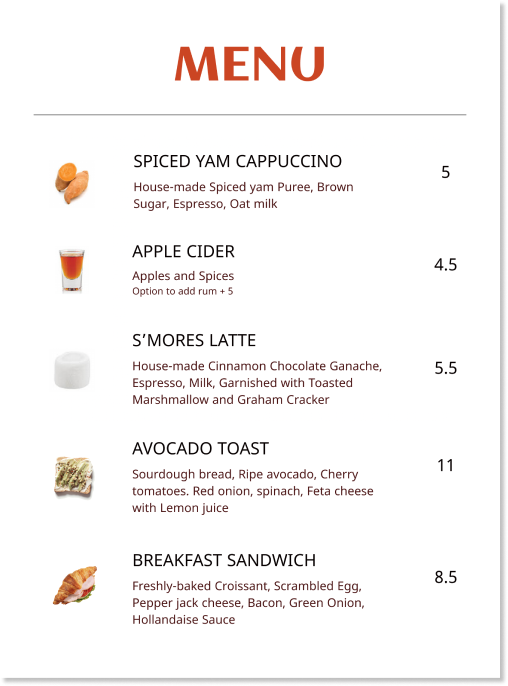
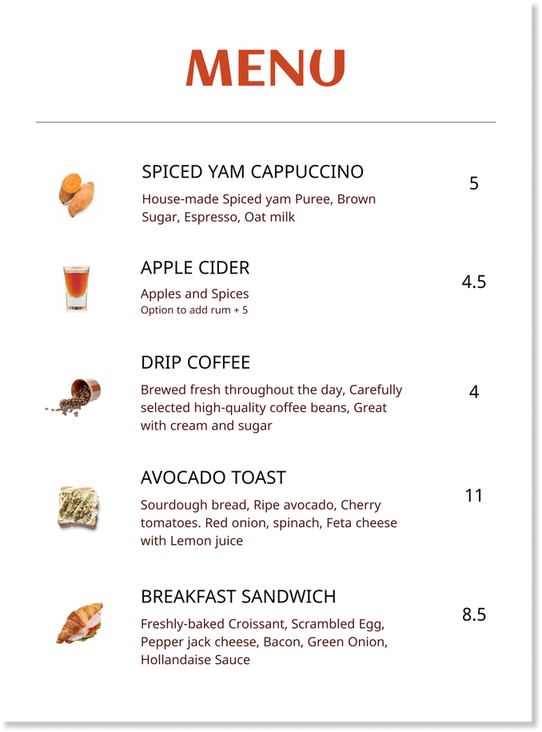
메뉴 수정(쉬운 커피 이름으로 변경) 툴팁 추가 (메뉴 버튼에 사용) 언어 선택 버튼 bgcolor 변경(기본 white, over 시 blue) bgm 볼륨 절반으로 줄임(큰 차이를 모르겠네. -_-a)

diff --git a/src/pages/TalkPage.jsx b/src/pages/TalkPage.jsx
@@ -1,22 +1,25 @@
-import { useEffect, useRef } from "react";
+import { useEffect, useState, useRef } from "react";
 import styled from "styled-components"
 import EndDialog from "../components/dialog/EndDialog";
 import MenuDialog from "../components/dialog/MenuDialog";
 import TalkButton from "../components/TalkButton";
+import ToolTip from "../components/common/tooltip";
 import CafeBGM from '/mp3/카페.mp3';
 import CafeBG from '/img/대화_카페.png';
 import Document from '/img/document 1.png';
 import X from '/img/x-1.png';
 import { useAtomValue } from "jotai";
 import { isCloseAtom } from "../atom/atom";
+
 const TalkPage = () => {
     const modal = useRef(null);
     const menu = useRef(null);
     const bgmRef = useRef(null);
     const isClose = useAtomValue(isCloseAtom);
+
     useEffect(() => {
         if(isClose) {
-            bgmRef.current.volume = 0.2;
+            bgmRef.current.volume = 0.1;
             bgmRef.current.play();
         } else menu.current?.showModal()
     },[isClose])
@@ -36,7 +39,9 @@ const TalkPage = () => {
                             <div className="text">메뉴판</div>
                         </MenuBlock>
                     </div>
+                    <ToolTip />
                 </ImageBlock>
+
                 <audio controls src={CafeBGM} style={{ "display" : "none" }} ref={bgmRef}></audio>
                 <MiceBlock>
                     <TalkButton></TalkButton>
@@ -141,8 +146,6 @@ const TextBlock = styled.div`
         width: 62%;
     }
 `
-
-
 
 const MiceBlock = styled.div`
     display: flex;

diff --git a/src/components/common/tooltip.jsx b/src/components/common/tooltip.jsx
@@ -1,0 +1,36 @@
+import React, { useState, useEffect } from 'react';
+
+function ToolTip() {
+  const [visible, setVisible] = useState(true);
+  const [position, setPosition] = useState({ x: 0, y: 0 });
+
+  useEffect(() => {
+    const targetElement = document.querySelector(".document");
+    if (targetElement) {
+      const { x, y } = targetElement.getBoundingClientRect();
+      setPosition({ x, y });
+    }
+    const timeoutId = setTimeout(() => setVisible(false), 5000);
+    return () => clearTimeout(timeoutId);
+  }, []);
+
+  return visible ? (
+    <button
+      style={{
+        position: 'absolute',
+        top: `${position.y - 40}px`,
+        left: `${position.x - 200}px`,
+        padding: '8px',
+        backgroundColor: 'white',
+        color: 'black',
+        borderRadius: '5px',
+        border: 'none',
+        // cursor: 'pointer',
+      }}
+    >
+      메뉴는 여기서 다시 확인할 수 있어요.
+    </button>
+  ) : null;
+}
+
+export default ToolTip;

diff --git a/src/pages/LanguagePage.jsx b/src/pages/LanguagePage.jsx
@@ -88,7 +88,7 @@ const SelectBlock = styled.div`
     font-weight: 700;
     font-size: 36px;
     line-height: 43px;
-    color: #FFFFFF;
+    color: #4B8BF6;
     .language-item{
         box-sizing: border-box;
         display: flex;
@@ -98,10 +98,11 @@ const SelectBlock = styled.div`
         width: 463px;
         height: 99px;
         border-radius: 50px;
-        background: #4B8BF6;
+        border: 1px solid #4B8BF6;
+        background: white;
         &:hover{
-            background: white;
-            color: #4B8BF6;
+            background: #4B8BF6;
+            color: #FFFFFF;
             border: 1px solid #4B8BF6;
         }
     }
